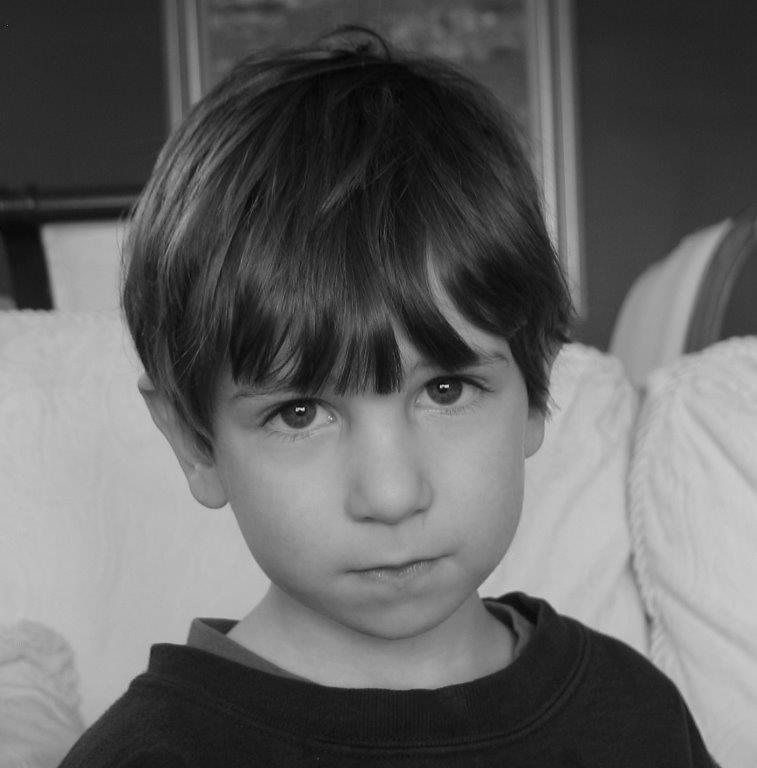
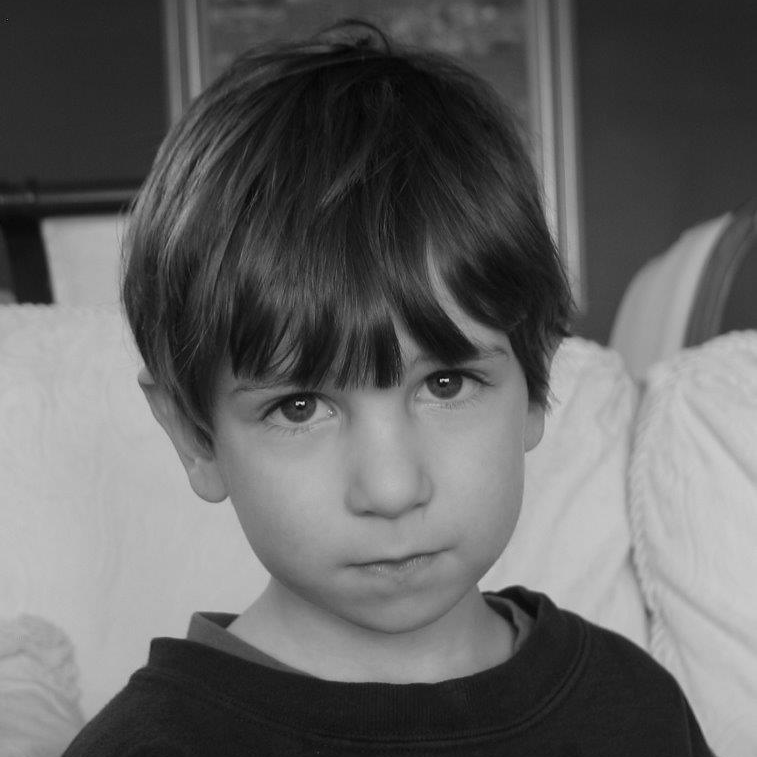
Fixed image aspect ratio

diff --git a/css/style.scss b/css/style.scss
@@ -287,7 +287,6 @@ nav {
 .about {
 	@include gradient-primary();
 
-	// TODO slant at top
 	padding-top: 12vw;
 	margin-top: -12vw;
 	clip-path: polygon(0 5%, 100% 0, 100% 100%, 0 100%);
